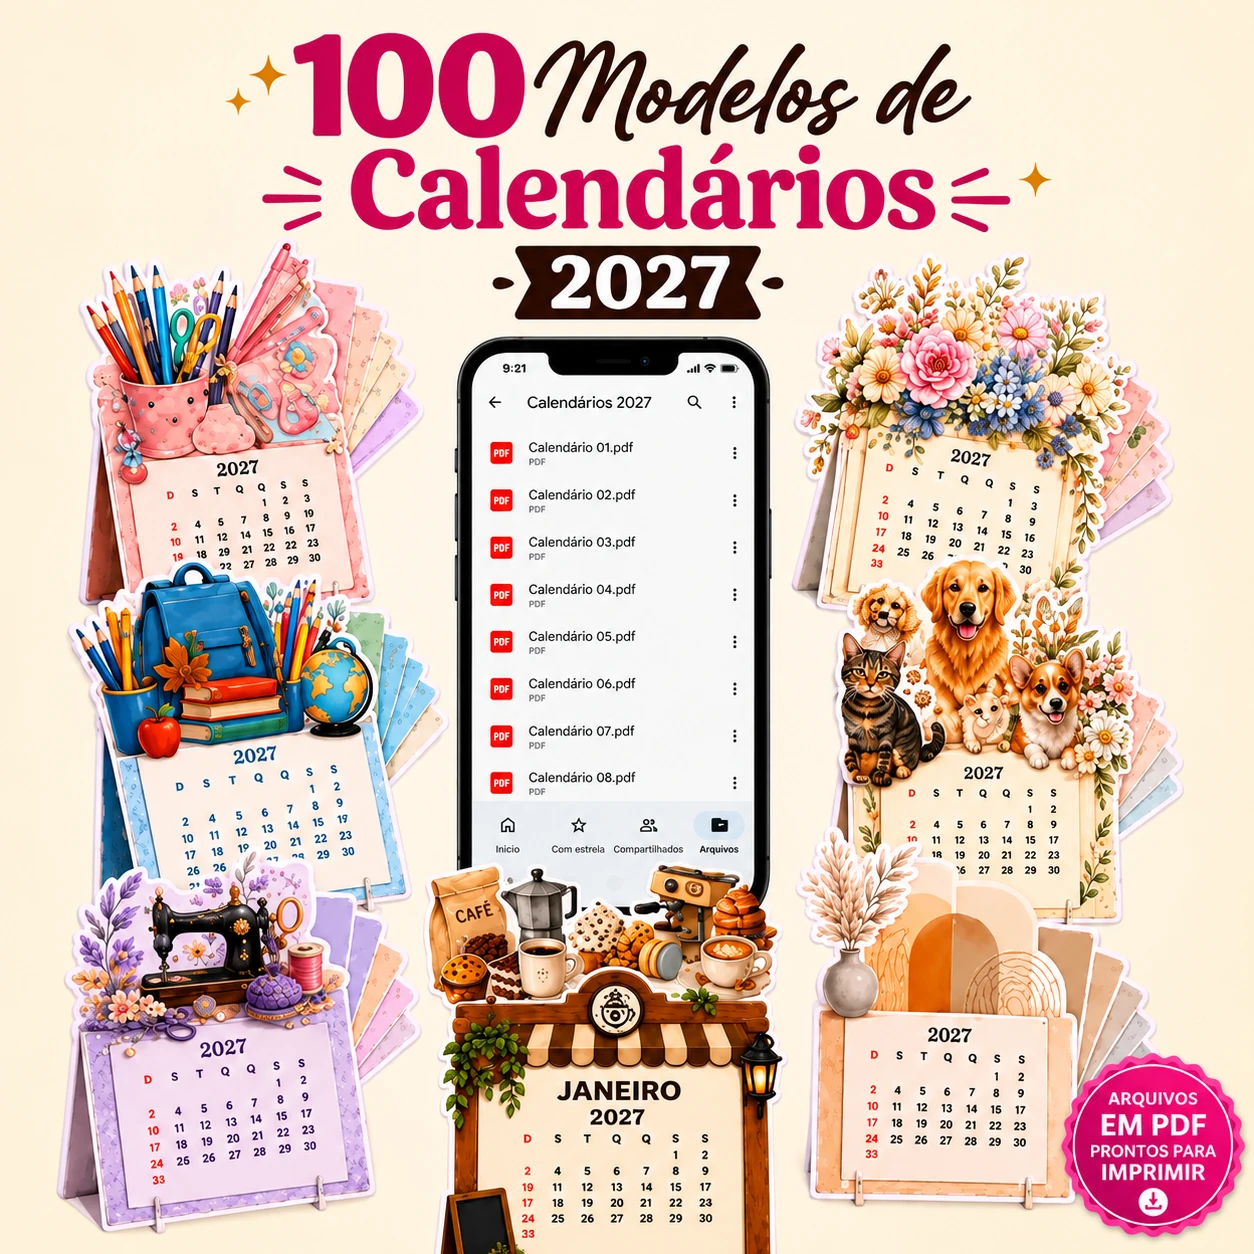
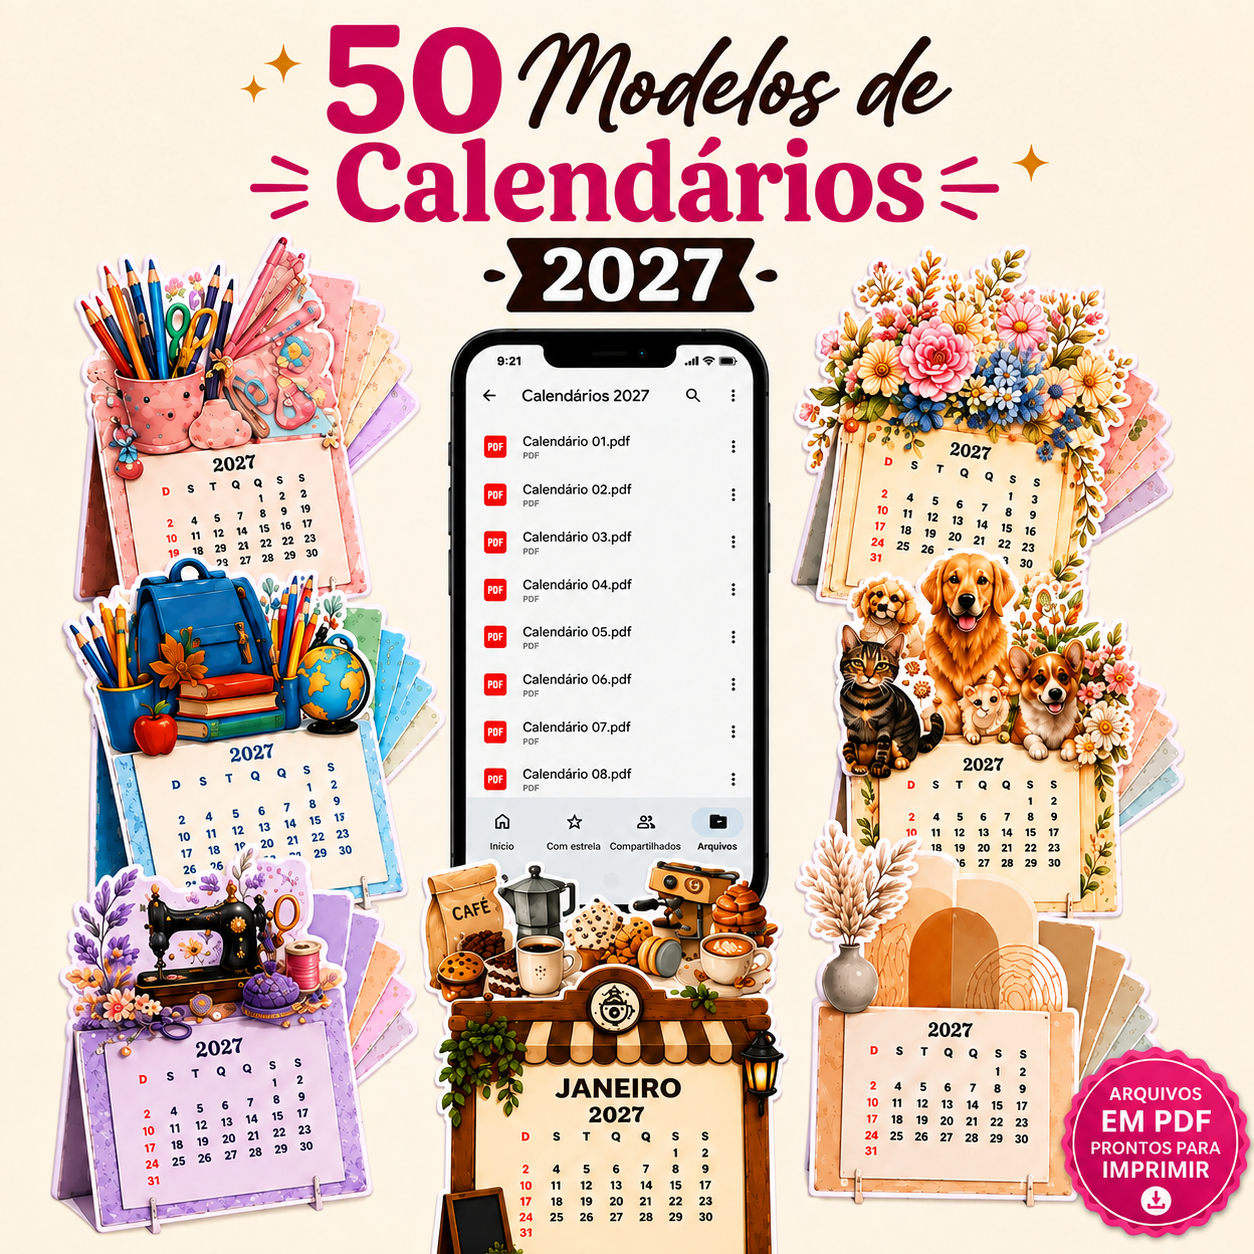
teste preço

diff --git a/index.html b/index.html
@@ -283,8 +283,8 @@
   }
   .plan-bonus-list{list-style:none;padding:0;margin:0 0 6px;}
   .plan-bonus-list li{
-    display:flex;gap:8px;align-items:flex-start;font-size:13.5px;font-weight:600;
-    color:var(--ink);padding:5px 0;
+    display:flex;gap:9px;align-items:flex-start;font-size:14px;font-weight:600;
+    color:var(--ink);padding:7px 0;
   }
   .plan-bonus-list li .gift{flex-shrink:0;}
   .plan-bonus-list li .gift{display:inline-flex;color:var(--gold);}
@@ -710,8 +710,8 @@ src="https://www.facebook.com/tr?id=1388998389231992&ev=PageView&noscript=1"
         <div class="plan-tag">Kit Premium</div>
         <div class="plan-price-block">
           <div class="plan-old-price-line">De <span class="plan-old-price">R$ 197</span> por</div>
-          <div class="plan-price">R$ 19<small>,90</small></div>
-          <div class="plan-economia">Valor Economizado R$ 177,10</div>
+          <div class="plan-price">R$ 24<small>,90</small></div>
+          <div class="plan-economia">Valor Economizado R$ 172,10</div>
           <div class="plan-pay-once">pagamento único</div>
         </div>
         <div class="plan-divider"></div>
@@ -729,11 +729,13 @@ src="https://www.facebook.com/tr?id=1388998389231992&ev=PageView&noscript=1"
           <li><span class="gift"><svg viewBox="0 0 24 24" width="14" height="14" fill="none" stroke="currentColor" stroke-width="1.8" stroke-linecap="round" stroke-linejoin="round"><rect x="3" y="8" width="18" height="4" rx="1"/><rect x="4" y="12" width="16" height="9" rx="1"/><path d="M12 8V21"/><path d="M12 8C12 8 12 4 9 4C7.5 4 7 5.2 7 6C7 7.5 8.5 8 9 8H12Z"/><path d="M12 8C12 8 12 4 15 4C16.5 4 17 5.2 17 6C17 7.5 15.5 8 15 8H12Z"/></svg></span> Guia de impressão</li>
           <li><span class="gift"><svg viewBox="0 0 24 24" width="14" height="14" fill="none" stroke="currentColor" stroke-width="1.8" stroke-linecap="round" stroke-linejoin="round"><rect x="3" y="8" width="18" height="4" rx="1"/><rect x="4" y="12" width="16" height="9" rx="1"/><path d="M12 8V21"/><path d="M12 8C12 8 12 4 9 4C7.5 4 7 5.2 7 6C7 7.5 8.5 8 9 8H12Z"/><path d="M12 8C12 8 12 4 15 4C16.5 4 17 5.2 17 6C17 7.5 15.5 8 15 8H12Z"/></svg></span> Papéis recomendados</li>
           <li><span class="gift"><svg viewBox="0 0 24 24" width="14" height="14" fill="none" stroke="currentColor" stroke-width="1.8" stroke-linecap="round" stroke-linejoin="round"><rect x="3" y="8" width="18" height="4" rx="1"/><rect x="4" y="12" width="16" height="9" rx="1"/><path d="M12 8V21"/><path d="M12 8C12 8 12 4 9 4C7.5 4 7 5.2 7 6C7 7.5 8.5 8 9 8H12Z"/><path d="M12 8C12 8 12 4 15 4C16.5 4 17 5.2 17 6C17 7.5 15.5 8 15 8H12Z"/></svg></span> Calendários de parede A4</li>
-          <li><span class="gift"><svg viewBox="0 0 24 24" width="14" height="14" fill="none" stroke="currentColor" stroke-width="1.8" stroke-linecap="round" stroke-linejoin="round"><rect x="3" y="8" width="18" height="4" rx="1"/><rect x="4" y="12" width="16" height="9" rx="1"/><path d="M12 8V21"/><path d="M12 8C12 8 12 4 9 4C7.5 4 7 5.2 7 6C7 7.5 8.5 8 9 8H12Z"/><path d="M12 8C12 8 12 4 15 4C16.5 4 17 5.2 17 6C17 7.5 15.5 8 15 8H12Z"/></svg></span> 10 Modelos Diversos</li>
           <li><span class="gift"><svg viewBox="0 0 24 24" width="14" height="14" fill="none" stroke="currentColor" stroke-width="1.8" stroke-linecap="round" stroke-linejoin="round"><rect x="3" y="8" width="18" height="4" rx="1"/><rect x="4" y="12" width="16" height="9" rx="1"/><path d="M12 8V21"/><path d="M12 8C12 8 12 4 9 4C7.5 4 7 5.2 7 6C7 7.5 8.5 8 9 8H12Z"/><path d="M12 8C12 8 12 4 15 4C16.5 4 17 5.2 17 6C17 7.5 15.5 8 15 8H12Z"/></svg></span> Atualizações incluídas</li>
           <li><span class="gift"><svg viewBox="0 0 24 24" width="14" height="14" fill="none" stroke="currentColor" stroke-width="1.8" stroke-linecap="round" stroke-linejoin="round"><rect x="3" y="8" width="18" height="4" rx="1"/><rect x="4" y="12" width="16" height="9" rx="1"/><path d="M12 8V21"/><path d="M12 8C12 8 12 4 9 4C7.5 4 7 5.2 7 6C7 7.5 8.5 8 9 8H12Z"/><path d="M12 8C12 8 12 4 15 4C16.5 4 17 5.2 17 6C17 7.5 15.5 8 15 8H12Z"/></svg></span> Script de vendas no WhatsApp</li>
+          <li><span class="gift"><svg viewBox="0 0 24 24" width="14" height="14" fill="none" stroke="currentColor" stroke-width="1.8" stroke-linecap="round" stroke-linejoin="round"><rect x="3" y="8" width="18" height="4" rx="1"/><rect x="4" y="12" width="16" height="9" rx="1"/><path d="M12 8V21"/><path d="M12 8C12 8 12 4 9 4C7.5 4 7 5.2 7 6C7 7.5 8.5 8 9 8H12Z"/><path d="M12 8C12 8 12 4 15 4C16.5 4 17 5.2 17 6C17 7.5 15.5 8 15 8H12Z"/></svg></span> Pack Baralho Personalizável no Canva</li>
+          <li><span class="gift"><svg viewBox="0 0 24 24" width="14" height="14" fill="none" stroke="currentColor" stroke-width="1.8" stroke-linecap="round" stroke-linejoin="round"><rect x="3" y="8" width="18" height="4" rx="1"/><rect x="4" y="12" width="16" height="9" rx="1"/><path d="M12 8V21"/><path d="M12 8C12 8 12 4 9 4C7.5 4 7 5.2 7 6C7 7.5 8.5 8 9 8H12Z"/><path d="M12 8C12 8 12 4 15 4C16.5 4 17 5.2 17 6C17 7.5 15.5 8 15 8H12Z"/></svg></span> 350 Artes de Bottons Personalizados</li>
+          <li><span class="gift"><svg viewBox="0 0 24 24" width="14" height="14" fill="none" stroke="currentColor" stroke-width="1.8" stroke-linecap="round" stroke-linejoin="round"><rect x="3" y="8" width="18" height="4" rx="1"/><rect x="4" y="12" width="16" height="9" rx="1"/><path d="M12 8V21"/><path d="M12 8C12 8 12 4 9 4C7.5 4 7 5.2 7 6C7 7.5 8.5 8 9 8H12Z"/><path d="M12 8C12 8 12 4 15 4C16.5 4 17 5.2 17 6C17 7.5 15.5 8 15 8H12Z"/></svg></span> 150 Temas de Caixas Cenário Editáveis Canva</li>
         </ul>
-        <a href="https://ggcheckout.app/checkout/v5/HkJ9H0r6o86URTY3YLpF" class="plan-btn gold">Quero o Kit Premium</a>
+        <a href="https://ggcheckout.app/checkout/v5/ibaGLRtdXfidIxvtfKyv" class="plan-btn gold">Quero o Kit Premium</a>
       </div>
     </div>
     <img src="img/metodos.webp" alt="Formas de pagamento aceitas" style="max-width:220px;width:100%;margin:32px auto 0;display:block;">
@@ -834,8 +836,8 @@ src="https://www.facebook.com/tr?id=1388998389231992&ev=PageView&noscript=1"
     </div>
 
     <div class="modal-price-row">
-      <div class="modal-price-label">De <span class="modal-price-old">R$ 19,90</span> pelo menor valor:</div>
-      <div class="modal-price-new">R$ 14<small>,90</small></div>
+      <div class="modal-price-label">De <span class="modal-price-old">R$ 24,90</span> pelo menor valor:</div>
+      <div class="modal-price-new">R$ 19<small>,90</small></div>
       <div class="modal-price-diff">Pagamento único · Acesso imediato</div>
     </div>
 
@@ -847,7 +849,7 @@ src="https://www.facebook.com/tr?id=1388998389231992&ev=PageView&noscript=1"
       <span class="modal-chip">✓ Garantia 7 Dias</span>
     </div>
 
-    <a href="https://ggcheckout.app/checkout/v5/xvEauuxDLlfvf7onE9Qi" class="modal-btn-primary" id="acceptOffer">SIM! QUERO OS 100 CALENDÁRIOS POR R$ 14,90</a>
+    <a href="https://ggcheckout.app/checkout/v5/HkJ9H0r6o86URTY3YLpF" class="modal-btn-primary" id="acceptOffer">SIM! QUERO O PREMIUM POR R$ 19,90</a>
     <a href="https://ggcheckout.app/checkout/v5/O5gWr2CfyPWnV1EzLSFq" class="modal-btn-secondary" id="declineOffer">Não, quero o Kit Básico</a>
   </div>
 </div>
